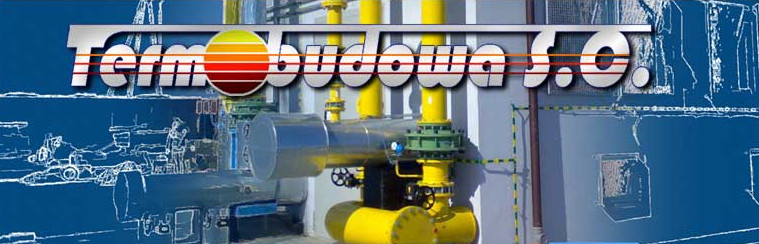
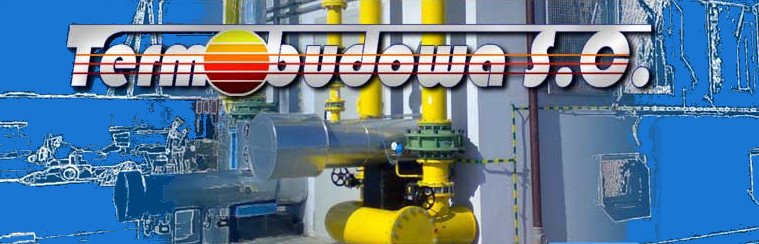
google map

diff --git a/src/components/company.vue b/src/components/company.vue
@@ -1,5 +1,5 @@
 <template>
-    <v-container fluid  style="background-color:  #02497d">
+    <v-container fluid  class="primary">
         <v-row  class="justify-center align-center">
 <!--        <h1 class="font-italic font-weight-light" :class="[$vuetify.breakpoint.mdAndUp ? 'display-4' : 'display-2']">Termobudowa S.C.</h1>-->
             <v-img class="image_banner"  src="../assets/banner.jpg" contain></v-img>
@@ -9,7 +9,7 @@
         <!--    <v-img  src="../assets/engineers.svg"></v-img>-->
         <!--    </v-col>-->
         <!--</v-row>-->
-        <v-row class="justify-center align-end"  style="min-height: 20vh">
+        <v-row class="justify-center align-end"  style="min-height: 15vh">
             <span>
                 <v-icon x-large class="error--text">mdi-mouse</v-icon>
                 <v-icon x-large class="error--text">mdi-arrow-up-down</v-icon>
@@ -25,11 +25,16 @@
 </script>
 
 <style scoped>
-.image_banner {
-    height: 200px;
-    width: auto;
-    opacity: 0.95;
-    border-radius: 35%;
+.image_banner  {
+
+    opacity: 0.90;
+    border-radius: 20%;
+}
+@media screen and (min-width: 700px) {
+    .image_banner  {
+        height: 250px;
+        width: auto;
+    }
 }
 
 
